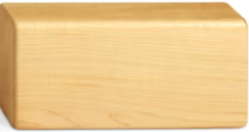
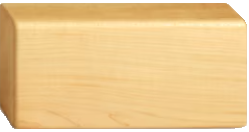
Added the ice block + Made the shop look a little better

diff --git a/Updated code for window physics.py b/Updated code for window physics.py
@@ -22,10 +22,18 @@ open_windows = []
 
 root_dir = Path(__file__).resolve().parent
 
+#Window Images
 image_path_block = root_dir / "Window_Images" / "WB.png"
 image_path_ball = root_dir / "Window_Images" / "BB.png"
+image_path_ice = root_dir / "Window_Images" / "IC.png"
 
-def open_new_window(event=None):
+#Shop Button Images
+image_path_ball_shop = root_dir / "Shop_Images" / "BBs.png"
+image_path_block_shop = root_dir / "Shop_Images" / "WBs.png"
+image_path_ice_shop = root_dir / "Shop_Images" / "ICs.png"
+
+#Wooden Block Window Creator
+def open_wood_window(event=None):
     spawn_x = len(open_windows) * (WIDTH + MARGIN) % SCREEN_WIDTH
     spawn_y = 50
     try:
@@ -55,6 +63,7 @@ def open_new_window(event=None):
         'vy': 0,
         'falling': True,
         'bouncy': False,
+        'slippery': False,
         'width': img_width,
         'height': img_height,
         'support': None
@@ -64,7 +73,8 @@ def open_new_window(event=None):
     new_window.bind("<B1-Motion>", lambda e, w=new_window: on_window_drag(e, w))
     new_window.bind("<ButtonRelease-1>", lambda e, w=new_window: on_window_release(e, w))
 
-def open_bouncy_ball_window(event=None):
+#Bouncy Ball Window Creator
+def open_ball_window(event=None):
     spawn_x = len(open_windows) * (WIDTH + MARGIN) % SCREEN_WIDTH
     spawn_y = 50
     try:
@@ -98,6 +108,7 @@ def open_bouncy_ball_window(event=None):
         'vy': 0,
         'falling': True,
         'bouncy': True,
+        'slippery': False,
         'width': new_width,
         'height': new_height,
         'support': None
@@ -107,13 +118,60 @@ def open_bouncy_ball_window(event=None):
     new_window.bind("<B1-Motion>", lambda e, w=new_window: on_window_drag(e, w))
     new_window.bind("<ButtonRelease-1>", lambda e, w=new_window: on_window_release(e, w))
 
-def apply_gravity():
+#Ice Cube Window Creator
+def open_ice_window(event=None):
+    spawn_x = len(open_windows) * (WIDTH + MARGIN) % SCREEN_WIDTH
+    spawn_y = 50
+    try:
+        image = Image.open(image_path_ice)
+        scale_factor = 0.5
+        img_width, img_height = image.size
+        new_width = int(img_width * scale_factor)
+        new_height = int(img_height * scale_factor)
+        resized_image = image.resize((new_width, new_height), Image.Resampling.LANCZOS)
+        photo_image = ImageTk.PhotoImage(resized_image)
+    except Exception as e:
+        print(f"Error loading image: {e}")
+        photo_image = None
+        new_width, new_height = WIDTH, HEIGHT
+
+    new_window = tk.Toplevel()
+    new_window.title("Ice Cube")
+    new_window.geometry(f"{new_width}x{new_height}+{spawn_x}+{spawn_y}")
+    new_window.resizable(False, False)
+
+    if photo_image:
+        label = tk.Label(new_window, image=photo_image)
+        label.pack()
+        new_window.photo_image = photo_image
+
+    open_windows.append({
+        'window': new_window,
+        'x': spawn_x,
+        'y': spawn_y,
+        'vx': 0,
+        'vy': 0,
+        'falling': True,
+        'bouncy': False,
+        'slippery': True,
+        'width': new_width,
+        'height': new_height,
+        'support': None
+    })
+
+    new_window.bind("<ButtonPress-1>", lambda e, w=new_window: on_window_press(e, w))
+    new_window.bind("<B1-Motion>", lambda e, w=new_window: on_window_drag(e, w))
+    new_window.bind("<ButtonRelease-1>", lambda e, w=new_window: on_window_release(e, w))
+
+#Gives Windows physics, this also houses the friction functions
+def apply_physics():
     for block in open_windows:
         win = block['window']
         x, y = block['x'], block['y']
         vx, vy = block.get('vx', 0), block.get('vy', 0)
         width, height = block['width'], block['height']
         is_bouncy = block.get('bouncy', False)
+        is_slippery = block.get('slippery', False)
 
         if block['falling']:
             vy += 1.5
@@ -180,7 +238,8 @@ def apply_gravity():
         # Friction logic for all objects
         if not block['falling']:
             vy = 0
-            friction = 0.9 if is_bouncy else 0.8
+            friction = 0.9 if is_bouncy else 0.99999 if is_slippery else 0.8
+            
             vx *= friction
             if abs(vx) < 0.2:
                 vx = 0
@@ -188,7 +247,7 @@ def apply_gravity():
         block.update({'x': x, 'y': y, 'vx': vx, 'vy': vy})
         win.geometry(f"{width}x{height}+{int(x)}+{int(y)}")
 
-    shop_window.after(30, apply_gravity)
+    shop_window.after(30, apply_physics)
 
 def on_window_press(event, window):
     window.drag_data = {'x': event.x, 'y': event.y}
@@ -251,18 +310,33 @@ class ShopGUI(tk.Frame):
         self.setupShop()
 
     def setupShop(self):
+        # Configure the grid layout
         for row in range(6):
             tk.Grid.rowconfigure(self, row, weight=1)
         for col in range(5):
             tk.Grid.columnconfigure(self, col, weight=1)
 
-        block_button = tk.Button(self, bg='white', text="Wooden Block",
-            borderwidth=1, highlightthickness=0, activebackground='white', command=open_new_window)
+        # Load and keep a reference to the images to prevent garbage collection
+        self.block_image = Image.open(image_path_block_shop)
+        self.ball_image = Image.open(image_path_ball_shop)
+        self.ice_image = Image.open(image_path_ice_shop)
+
+        # Convert images to Tkinter compatible format
+        self.block_shop_img = ImageTk.PhotoImage(self.block_image)
+        self.ball_shop_img = ImageTk.PhotoImage(self.ball_image)
+        self.ice_shop_img = ImageTk.PhotoImage(self.ice_image)
+
+        # Add Wood Block button
+        block_button = tk.Button(self, text="Wooden Block", image=self.block_shop_img, compound="bottom", borderwidth=1, command=open_wood_window)
         block_button.grid(row=1, column=0, sticky=tk.E + tk.W + tk.N + tk.S)
 
-        ball_button = tk.Button(self, bg='white', text="Bouncy Ball",
-            borderwidth=1, highlightthickness=0, activebackground='white', command=open_bouncy_ball_window)
+        # Add Bouncey Ball button
+        ball_button = tk.Button(self, text="Bouncy Ball", image=self.ball_shop_img, compound="bottom", borderwidth=1, command=open_ball_window)
         ball_button.grid(row=1, column=1, sticky=tk.E + tk.W + tk.N + tk.S)
+
+        # Add Ice Cube button
+        ball_button = tk.Button(self, text="Ice Cube", image=self.ice_shop_img, compound="bottom", borderwidth=1, command=open_ice_window)
+        ball_button.grid(row=1, column=2, sticky=tk.E + tk.W + tk.N + tk.S)
 
         self.pack(expand=1)
 
@@ -271,5 +345,5 @@ shop_window.title(f"Window Shop: Your Points = {SHOP_POINTS}")
 shop_window.geometry(f"{SHOP_WIDTH}x{SHOP_HEIGHT}")
 shop = ShopGUI(shop_window)
 
-apply_gravity()
+apply_physics()
 shop_window.mainloop()
